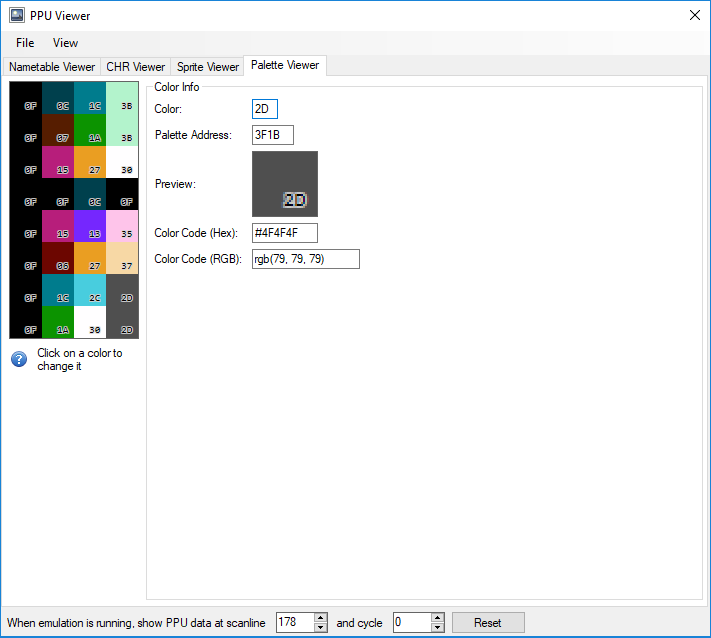
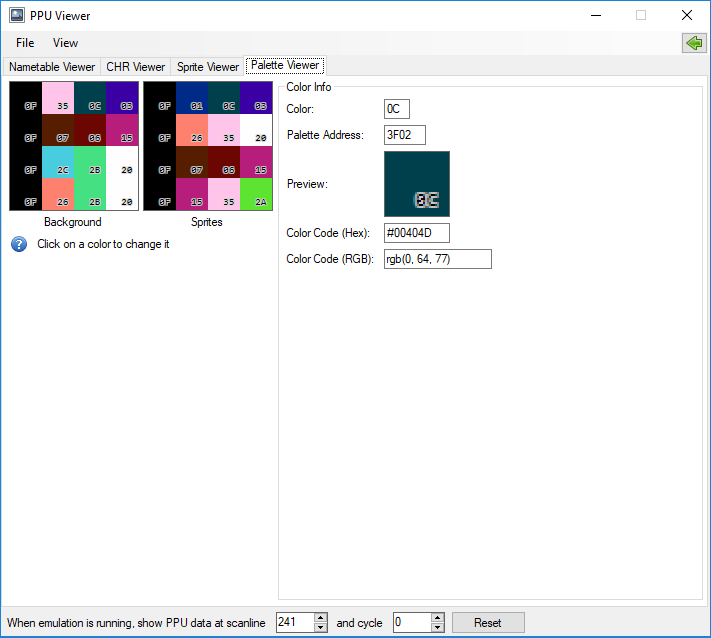
Docs: Updates for debug tools (ppu viewer, etc.)

Changed region(s): [[0.0, 0.1191, 0.6498, 0.5956], [0.9592, 0.0, 1.0, 0.0893], [0.3713, 0.953, 0.4332, 0.9828]]

diff --git a/Docs/content/debugging/PpuViewer.md b/Docs/content/debugging/PpuViewer.md
@@ -1,6 +1,6 @@
 ---
 title: PPU Viewer
-weight: 15
+weight: 20
 pre: ""
 chapter: false
 ---
@@ -10,6 +10,8 @@ The PPU Viewer is a collection of tools allowing you to view/edit the current st
 All tabs share some common settings:
 
 * **Auto-refresh**: Enabled by default, this makes the PPU viewer refresh at a rate of 15 FPS.
+* **Auto-refresh speed**: Configures at what speed the PPU viewer will refresh itself (15/30/60 FPS)
+* **Show information overlay**: When enabled, a mouse-over overlay is shown in the nametable/CHR/sprite viewers with information on the tile/sprite below the mouse cursor.
 * **When emulation is running, show PPU data at scanline [y] and cycle [x]**: When using the auto-refresh option, this allows you to control at which point in a frame (cycle & scanline) the data is refreshed while the emulation is running. This is useful for games that perform CHR bank switching in the middle of a frame, for example.
 
 ## Nametable Viewer ##
@@ -34,6 +36,7 @@ Additionally, you can <kbd>**right-click**</kbd> on a tile to get more options:
 There are also a number of display options:
 
 * **Show PPU Scroll Overlay**: Shows a blue rectangular overlay showing the current scroll position of the screen.
+* **Show attribute colors only**: When enabled, the viewer will show the 4 colors available in each tile, rather than the actual contents of the nametables. This can be useful when trying to debug attribute-related coloring issues.
 * **Show Tile Grid**: Displays a 8x8 pixels <span class="red">red</span> grid.
 * **Show Attribute Grid**: Displays a 16x16 pixels <span class="blue">blue</span> grid.
 * **Use Grayscale Palette**: Forces the nametables to be shown in a 4-color grayscale palette.
@@ -95,6 +98,8 @@ Like the nametable viewer, <kbd>**double-click**</kbd> on a tile to view/edit it
 
 Additionally, you can <kbd>**right-click**</kbd> on a tile to copy the tile's information to the clipboard (for use with [HD Packs](/hdpacks.html)).
 
+**Display outline around all sprites in preview**: When enabled, all the sprites shown in the preview screen will be highlighted by a white rectangle.
+
 ## Palette Viewer/Editor ##
 
 <div class="imgBox"><div>
@@ -105,3 +110,19 @@ Additionally, you can <kbd>**right-click**</kbd> on a tile to copy the tile's in
 The Palette Viewer displays basic information about the current state of palette RAM.  
 It shows which colors are configured in each of the 8 available palettes.  
 You can click on any color to select another color for that slot.
+
+## Compact View ##
+
+<div class="imgBox"><div>
+	<img src="/images/SpriteViewerCompact.png" />
+	<span>Sprite Viewer (Compact View)</span>
+</div></div>
+
+<div class="imgBox" style="clear: none;"><div>
+	<img src="/images/PaletteViewerCompact.png" />
+	<span>Palette Viewer (Compact View)</span>
+</div></div>
+
+All PPU viewer tabs can be toggled to a standalone compact window, this can be done by pressing on the green arrow at the top right of the window. There is also a customizable keyboard shortcut for this (Default: `Ctrl+Q`) and the windows can be opened in compact mode directly using keyboard shortcuts or the `PPU Viewer (Compact)` menu in the `Tools` or `Debug` menus.  
+
+The compact viewers save their own position independently from the regular full-sized PPU window.

diff --git a/Docs/content/debugging/Debugger.md b/Docs/content/debugging/Debugger.md
@@ -120,27 +120,41 @@ The watch window allows you to evaluate expression and see their value. Mesen su
 
 ### Syntax ###
 
-The used syntax is identical to C/C++ syntax (e.g && for and, || for or, etc.) and should have the same operator precedence as C/C++.
+The used syntax is identical to C/C++ syntax (e.g && for and, || for or, etc.) and have the same operator precedence as C/C++.
 
 **Note:** Use the $ prefix to denote hexadecimal values.
 
-**Special values**
-```text
-A/X/Y/PS/SP: Value of corresponding registers
-PC: Program Counter
-OpPC: Address of the current instruction's first byte
-Irq/Nmi: True if the Irq/Nmi flags are set
-Cycle/Scanline: Current cycle (0-340)/scanline(-1 to 260) of the PPU
-Frame: PPU frame number (since power on/reset)
-Value: Current value being read/written from/to memory
-IsRead: True if the CPU is reading from a memory address
-IsWrite: True if the CPU is writing to a memory address
-Address: Current CPU memory address being read/written
-RomAddress: Current ROM address being read/written
-[<address>]: (Byte) Memory value at <address> (CPU)
-{<address>}: (Word) Memory value at <address> (CPU)
-```
-**Examples**
+#### Special values ####
+
+The following "variables" can be used in both the watch window and contional breakpoints to check the state of specific portions of the emulation core.
+
+**Numeric values**
+
+* **A/X/Y/PS/SP**: Value of corresponding registers
+* **PC**: Program Counter
+* **OpPC**: Address of the current instruction's first byte
+* **PreviousOpPC**: Address of the previous instruction's first byte
+* **Cycle/Scanline**: Current cycle (0-340)/scanline(-1 to 260) of the PPU
+* **Frame**: PPU frame number (since power on/reset)
+* **Value**: Current value being read/written from/to memory
+* **Address**: Current CPU memory address being read/written
+* **RomAddress**: Current ROM address being read/written
+* **[&lt;address&gt;]**: (Byte) Memory value at &lt;address&gt; (CPU)
+* **{&lt;address&gt;}**: (Word) Memory value at &lt;address&gt; (CPU)
+
+**Flags**
+
+* **Branched**: true if the current instruction was reached by a branch/jump instruction
+* **IsRead**: true if the CPU is reading from a memory address
+* **IsWrite**: true if the CPU is writing to a memory address  
+* **IRQ**: true if the IRQ flag is set
+* **NMI**: true if the NMI flag is set
+* **Sprite0Hit**: true if the PPU's "Sprite 0 Hit" flag is set
+* **SpriteOverflow**: true if the PPU's "Sprite Overflow" flag is set
+* **VerticalBlank**: true if the PPU's "Vertical Blank" flag is set
+
+  
+#### Usage Examples ####
 ```
 [$10] //Displays the value of memory at address $10 (CPU)
 a == 10 || x == $23

diff --git a/Docs/content/debugging/MemoryTools.md b/Docs/content/debugging/MemoryTools.md
@@ -120,25 +120,3 @@ Use the `Sort By` option to sort the list based on different criteria.
 The `Reset` button allows you to reset all counters back to 0 -- this is useful when you are trying to gather data for a specific portion of the execution.  
 
 Use the `Highlight uninitialized memory reads` option to track down any reads done to RAM memory before the RAM memory has been initialized after a power cycle -- reading from uninitialized memory can produce random behavior, which is usually unwanted.
-
-## Profiler ##
-
-<div class="imgBox"><div>
-	<img src="/images/Profiler.png" />
-	<span>Code Profiler</span>
-</div></div>
-
-The profiler automatically collects data about all function calls done by the code, as well as the number of clock cycles spent in each respective function.  
-
-Using the profiler makes it is easy to find the bottlenecks in a game's code, which can help code optimization efforts.
-
-If you are familiar with Visual Studio's profiler, these columns should be familiar:  
-
-* **Call Count**: The number of times this function was called during profiling
-* **Inclusive Time (Cyc)**: The amount of CPU cycles spent within this function (including the cycles spent by all functions called by this function)
-* **Inclusive Time (%)**: The relative portion of CPU time spent within this function (including the time spent by all functions called by this function)
-* **Exclusive Time (Cyc)**: The amount of CPU cycles spent within this function (functions called by this function are excluded)
-* **Exclusive Time (%)**: The relative portion of CPU time spent within this function (functions called by this function are excluded)
-* **Call Count**: The number of times this function was called during profiling
-
-Use the `Reset` button to reset the profiler's data -- use this when you want to profile a specific portion of the execution.

diff --git a/Docs/content/debugging/PerformanceProfiler.md b/Docs/content/debugging/PerformanceProfiler.md
@@ -1,0 +1,25 @@
+---
+title: Performance Profiler
+weight: 15
+chapter: false
+---
+
+<div class="imgBox"><div>
+	<img src="/images/Profiler.png" />
+	<span>Performance Profiler</span>
+</div></div>
+
+The profiler automatically collects data about all function calls done by the code, as well as the number of clock cycles spent in each respective function.  
+
+Using the profiler makes it is easy to find the bottlenecks in a game's code, which can help code optimization efforts.
+
+If you are familiar with Visual Studio's profiler, these columns should be familiar:  
+
+* **Call Count**: The number of times this function was called during profiling
+* **Inclusive Time (Cyc)**: The amount of CPU cycles spent within this function (including the cycles spent by all functions called by this function)
+* **Inclusive Time (%)**: The relative portion of CPU time spent within this function (including the time spent by all functions called by this function)
+* **Exclusive Time (Cyc)**: The amount of CPU cycles spent within this function (functions called by this function are excluded)
+* **Exclusive Time (%)**: The relative portion of CPU time spent within this function (functions called by this function are excluded)
+* **Call Count**: The number of times this function was called during profiling
+
+Use the `Reset` button to reset the profiler's data -- use this when you want to profile a specific portion of the execution.

diff --git a/Docs/content/debugging/_index.md b/Docs/content/debugging/_index.md
@@ -12,6 +12,7 @@ The debugging capabilities of Mesen are split across a number of different tools
 [Debugger](/debugging/debugger.html): View the code, add breakpoints, labels, watch values, and much more.   
 [Event Viewer](/debugging/eventviewer.html): Visualize the timing of a variety of events (register read/writes, nmi, irq, etc.).  
 [Memory Tools](/debugging/memorytools.html): Contains a hex editor and performance profiler.      
+[Performance Profiler](/debugging/performanceprofiler.html): Profiles the CPU's execution to help find bottlenecks in code.      
 [PPU Viewer](/debugging/ppuviewer.html):  Displays information on the nametables, sprites, CHR banks and palette. Contains a CHR graphic editor and a palette editor.    
 [Script Window](/debugging/scriptwindow.html):  Allows the execution of Lua scripts, which can communicate with the emulation via an API.   
 [Text Hooker](/debugging/texthooker.html):  Converts text shown on the screen into a text string (useful when trying to translate games.)  

diff --git a/Docs/content/_index.md b/Docs/content/_index.md
@@ -24,12 +24,15 @@ toc: false
 	* [Video Recorder](/tools.html#video-recorder)
 	* [Log Window](/tools.html#log-window)
 4. [Debugging Tools](/debugging.html)
-	* [Debugger](/debugging/debugger.html)
-	* [PPU Viewer](/debugging/ppuviewer.html)
-	* [Memory Tools](/debugging/memorytools.html)
-	* [Trace Logger](/debugging/tracelogger.html)
 	* [Assembler](/debugging/assembler.html)
+	* [Debugger](/debugging/debugger.html)
+	* [Event Viewer](/debugging/eventviewer.html)
+	* [Memory Tools](/debugging/memorytools.html)
+	* [Performance Profiler](/debugging/performanceprofiler.html)
+	* [PPU Viewer](/debugging/ppuviewer.html)
 	* [Script Window](/debugging/scriptwindow.html)
+	* [Text Hooker](/debugging/texthooker.html)
+	* [Trace Logger](/debugging/tracelogger.html)
 	* [Integration with CC65/ASM6](/debugging/debuggerintegration.html)
 5. [HD Packs](/hdpacks.html)
 6. [Lua API reference](/apireference.html)

diff --git a/Docs/content/debugging/DebuggerIntegration.md b/Docs/content/debugging/DebuggerIntegration.md
@@ -1,6 +1,6 @@
 ---
 title: Integration with compilers
-weight: 18
+weight: 40
 pre: ""
 chapter: false
 ---

diff --git a/Docs/content/debugging/ScriptWindow.md b/Docs/content/debugging/ScriptWindow.md
@@ -1,6 +1,6 @@
 ---
 title: Script Window
-weight: 16
+weight: 25
 chapter: false
 ---
 

diff --git a/Docs/content/debugging/TraceLogger.md b/Docs/content/debugging/TraceLogger.md
@@ -1,6 +1,6 @@
 ---
 title: Trace Logger
-weight: 17
+weight: 35
 chapter: false
 ---
 

diff --git a/Docs/content/debugging/TextHooker.md b/Docs/content/debugging/TextHooker.md
@@ -1,6 +1,6 @@
 ---
 title: Text Hooker
-weight: 16
+weight: 30
 chapter: false
 ---
 
